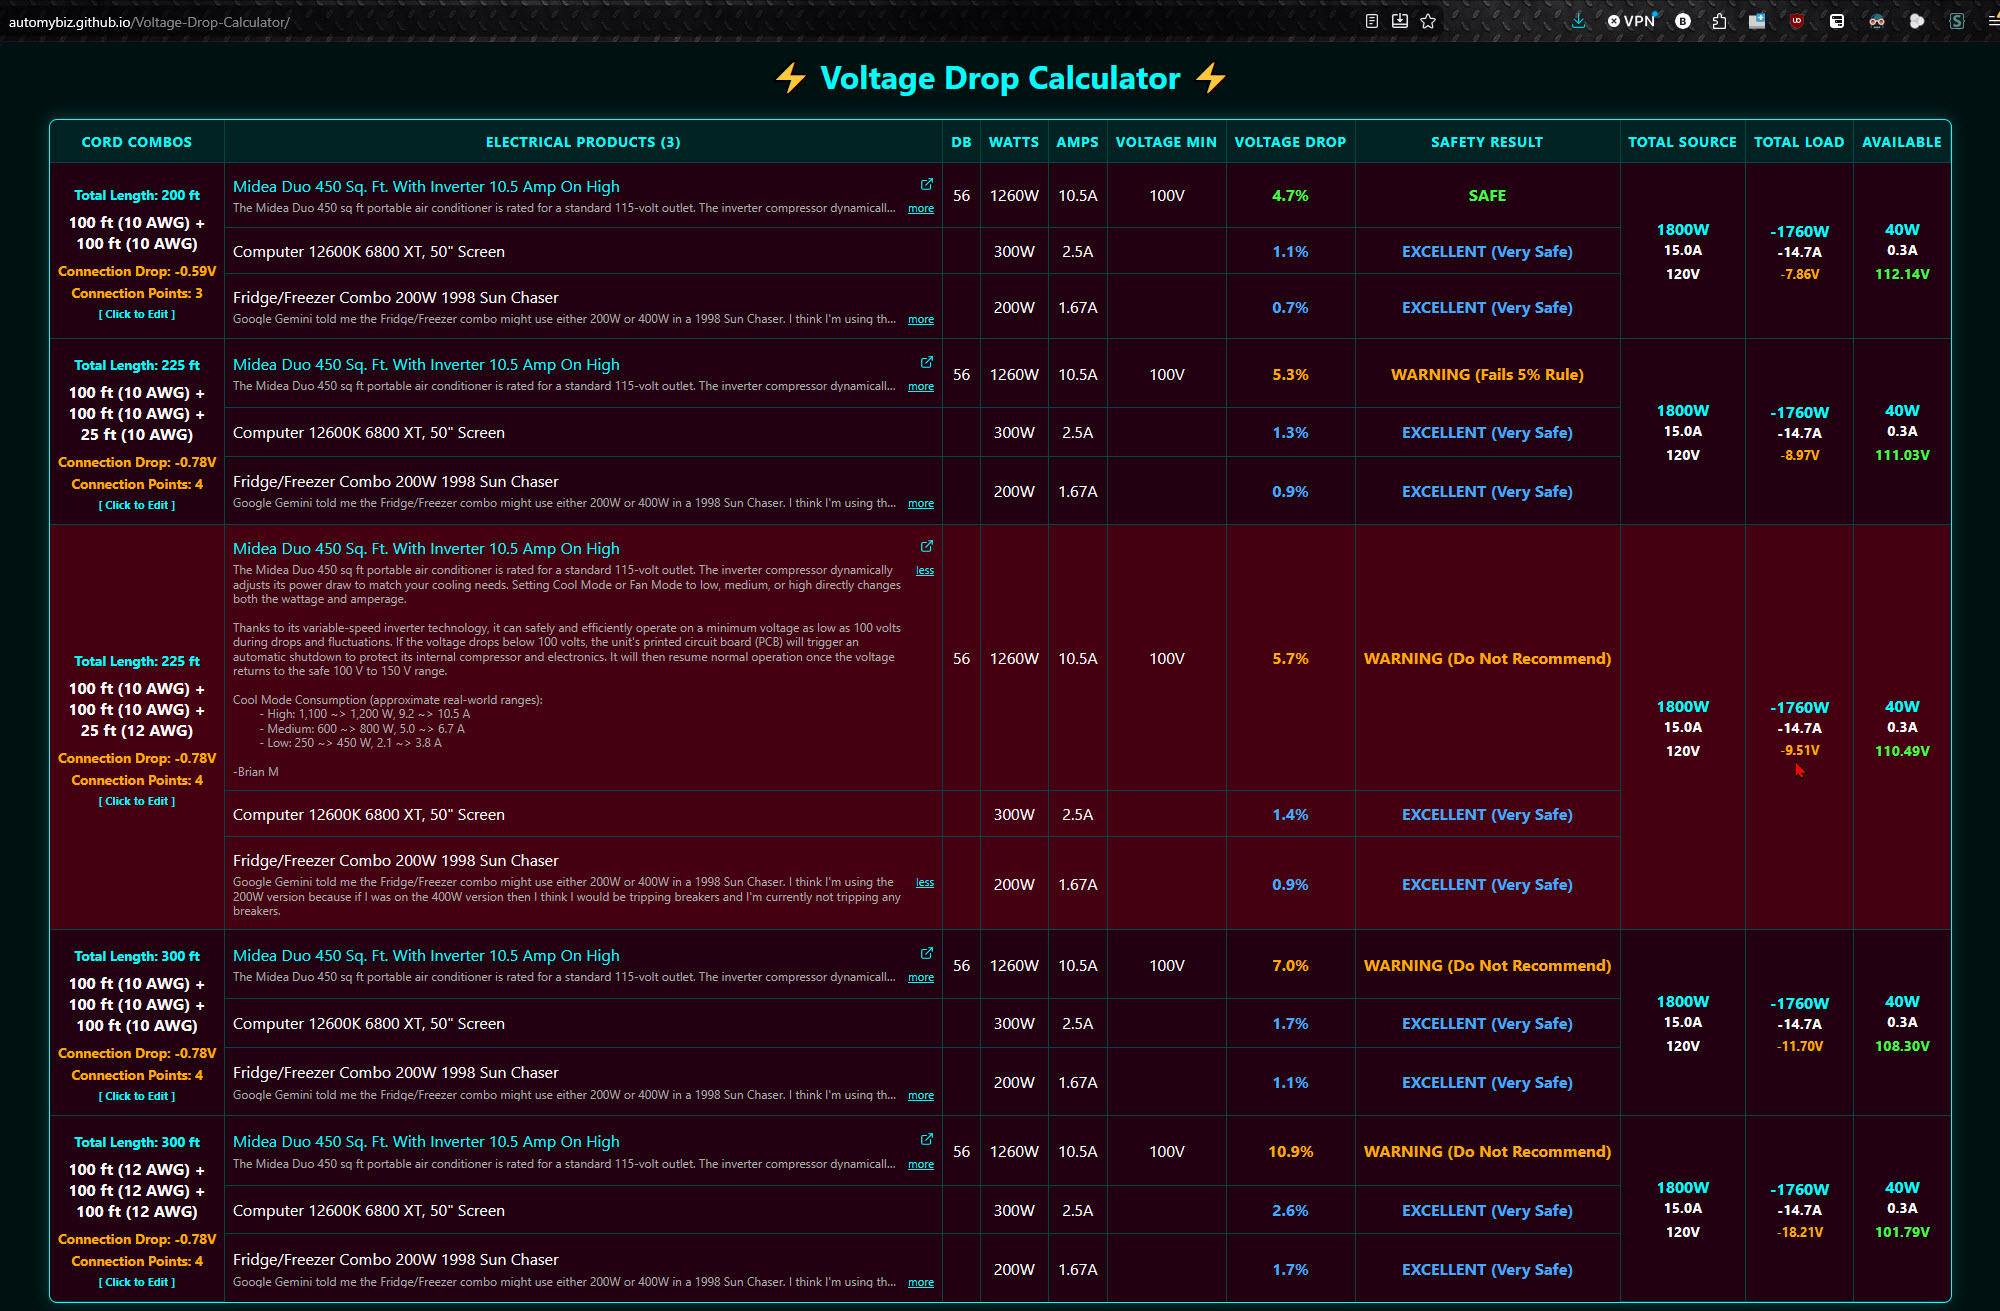
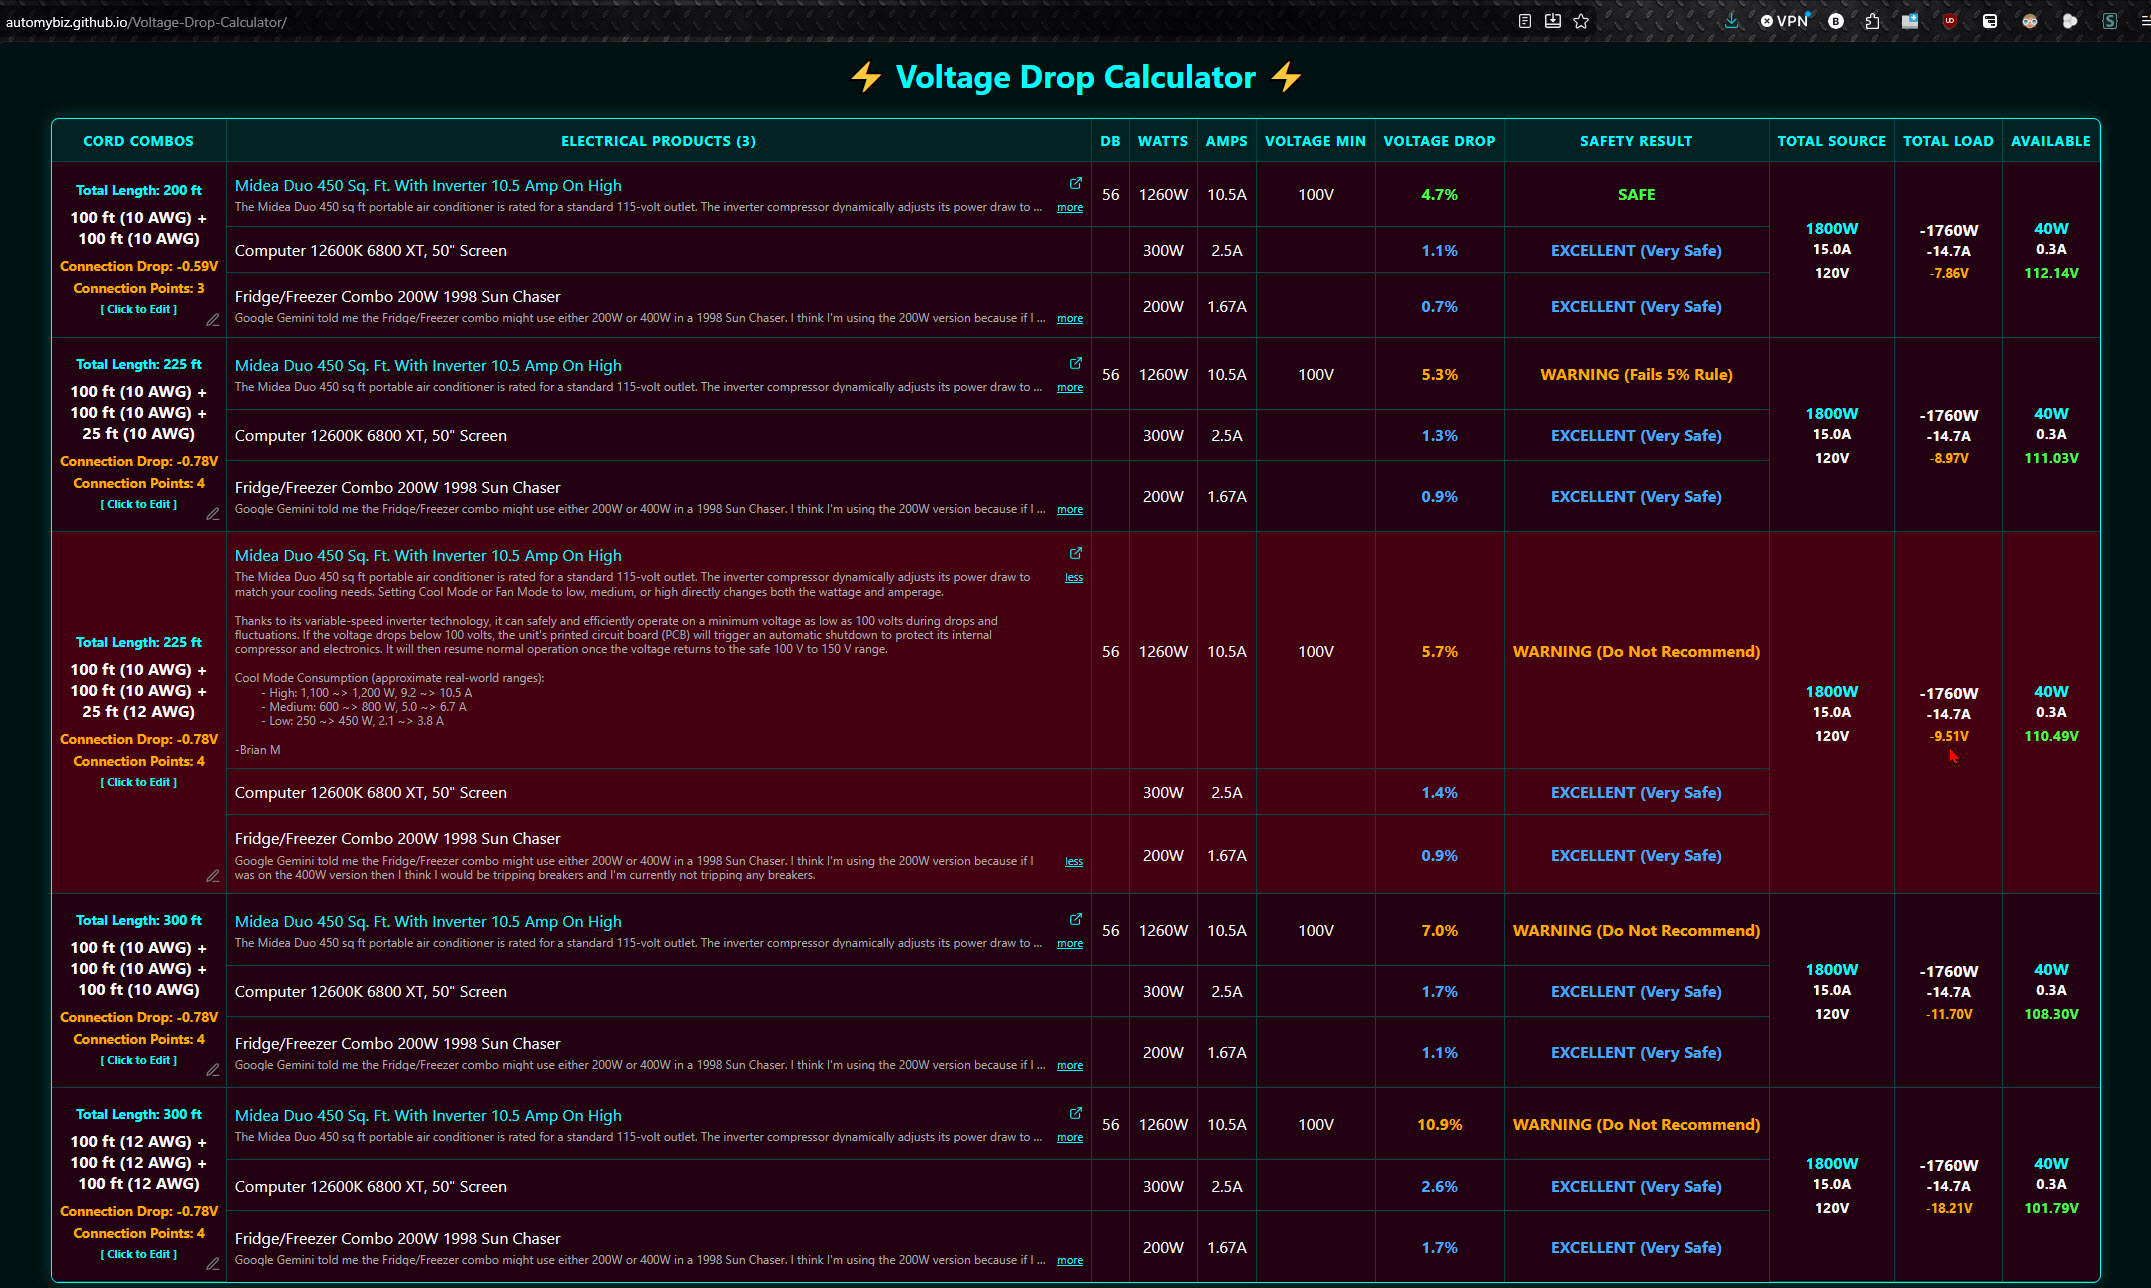
updated screenshots in Media folder.
increased HTML table container width from 95% to 99%.

Much ess empty useless space on sides of HTML table now : ))

diff --git a/styles-rules.css b/styles-rules.css
@@ -19,7 +19,7 @@ h1, h2 {
 }
 
 .container {
-    width: 95%;
+    width: 99%;
     max-width: none;
 }
 
